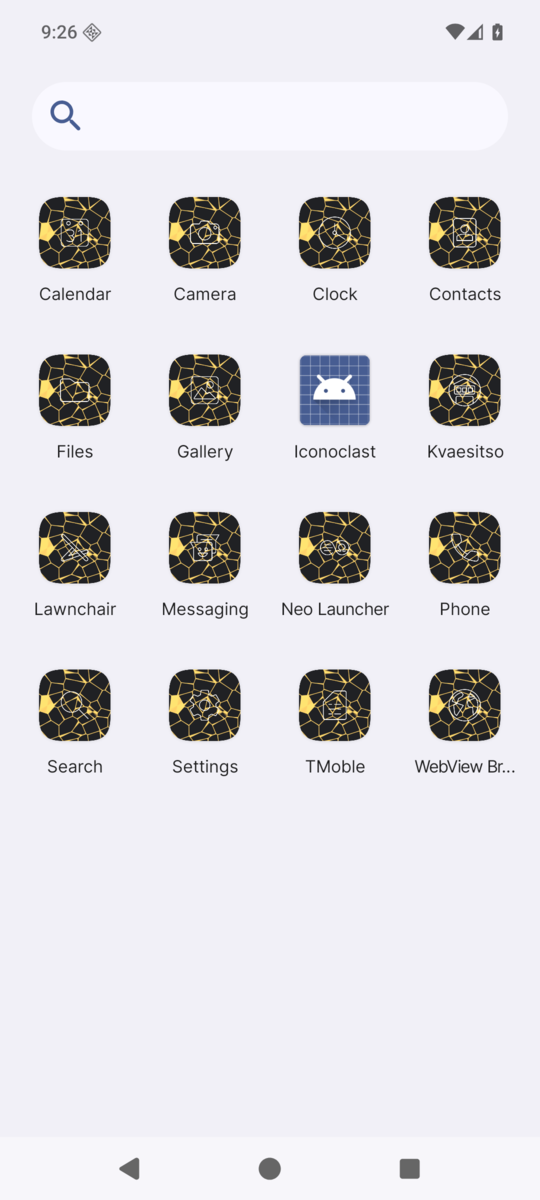
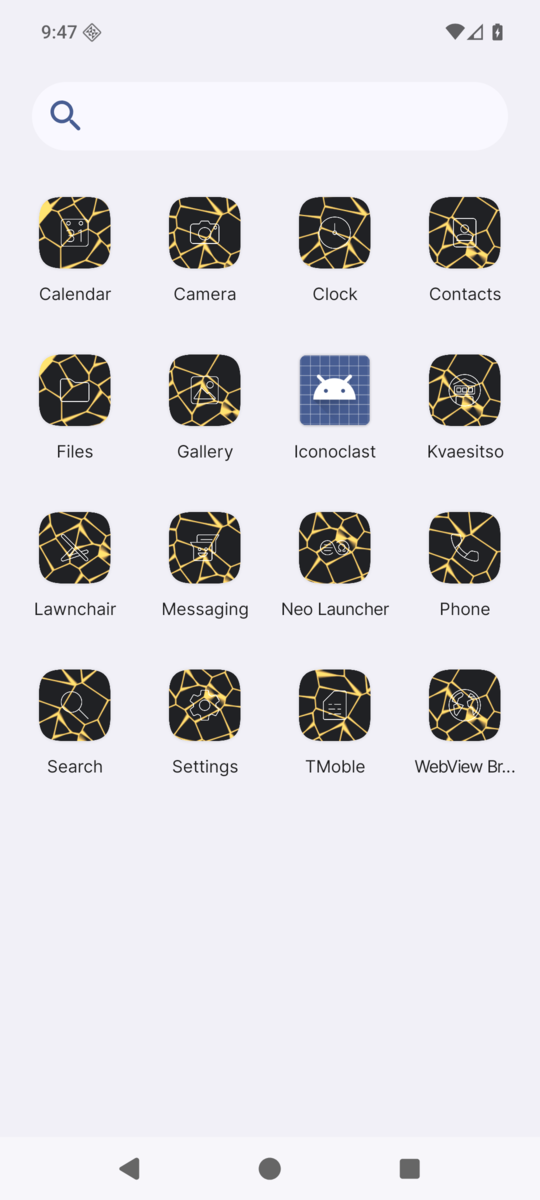
Record the Task 8 review fixes and retaken gate shots

diff --git a/docs/verification/m5.md b/docs/verification/m5.md
@@ -118,10 +118,10 @@ black-and-white `cracks.png`, pushed to `/sdcard/Pictures` and media-scanned.
 |---|---|
 | Photo picker shows the pushed image; picking it stores `c6d24d89...png`, the same hash as the JVM golden texture | `m5/t8_import_photo_picker.png`, logcat `texture chosen: c6d24d89... for Background` |
 | Look 1, Stone: Background tab texture layer, own colours, Screen 49%, over `#7A746E` | `m5/t8_look1_stone.png` |
-| Look 2, Gold: Layers tab texture layer, one colour `#FFC34D`, mask from luminance, clip Background, Add | `m5/t8_look2_gold.png` |
+| Look 2, Gold: Layers tab texture layer, one colour `#FFC34D`, mask from luminance, clip Background, Add, scale 2 (retaken after the offset ruling: every icon shows its own patch) | `m5/t8_look2_gold.png` |
 | Look 3, Etched: Silhouette fill, texture layer own colours, clip Icon, Difference | `m5/t8_look3_etched.png` |
 | The three looks side by side on the themes home | `m5/t8_home_three_looks.png` |
-| Gold applied, pack installed, 15 apps themed, Lawnchair restarted | `m5/t8_lawnchair_gold.png` |
+| Gold applied, pack installed, 15 apps themed, Lawnchair restarted; retaken at scale 2, icons visibly differ | `m5/t8_lawnchair_gold.png` |
 | Export Etched: share intent fires with `application/zip`; on this AOSP image only Bluetooth accepts it, so the screenshot is its device chooser. The file `cache/export/Etched.zip` holds `theme.json` and `textures/c6d24d89...png`, whose SHA-256 is its name | `m5/t8_export_share.png` |
 | Texture file deleted from the phone: editor snackbar, card hides the layer, Apply refuses without crashing | `m5/t8_missing_editor.png`, `m5/t8_missing_home.png`, `m5/t8_missing_apply.png` |
 | Re-import `Etched.zip` through Import, document picker, Downloads: the texture is restored and every card redraws with it, the new Etched included | `m5/t8_import_zip_picker.png`, `m5/t8_zip_reimported.png` |
@@ -139,3 +139,28 @@ granted with `appops set`, then Apply installed through the system prompt.
 
 After the gate: `adb emu kill`, `adb devices` empty, unit inactive, no
 emulator process.
+
+### Review fixes (2026-10-10)
+
+- Texture memory: `TextureStore` is a byte-capped LRU, 64 MB of decoded
+  pixels plus files, with load-through from `filesDir/textures`. Tests
+  `TextureStoreTest.evictsPastTheCapAndReloadsThroughTheLoader`,
+  `damagedOrMissingFilesReadAsAbsent`,
+  `TextureFilesTest.manyTexturesStayWithinTheCapAndReload`.
+- Zip import: only `theme.json` and referenced `textures/<sha256>.png` are
+  read, 64 MB decompressed in total, validated whole before storing. Tests
+  `ThemeZipTest.unreferencedEntriesAreSkippedUnread` (80 entries of 2 MB),
+  `referencedEntriesAreCappedInTotal` (4 x 20 MB of zeros in a sub-1 MB zip),
+  `validationTouchesNoStore`.
+- Offset ruling: FIT now moves within its room; new texture layers start at
+  scale 2. `MappingTest.fitMovesWithinTheRoom`, `fillNeedsRoomToMove`. No
+  golden changed: the only FIT golden (`layers_grain` `fill-tex`) is locked.
+- `./gradlew :render:test :app:testDebugUnitTest :app:assembleDebug`: render
+  85 tests, app 56 tests, 0 failures, BUILD SUCCESSFUL.
+- ART byte identity on icondesign36: `OK (1 test)`, logcat
+  `compared 164 PNGs, 0 differ: []`.
+- ImageDecoder import: a 4000 x 3000 JPEG with EXIF Orientation 6 (Rotate 90
+  CW), an arrow pointing up once oriented, picked through the photo picker.
+  Stored `de334164...png`, 1536 x 2048, arrow upright, its SHA-256 its name.
+  `m5/t8_import_exif_downscale.png`.
+- Emulator killed after: `adb devices` empty, unit inactive, 0 processes.
